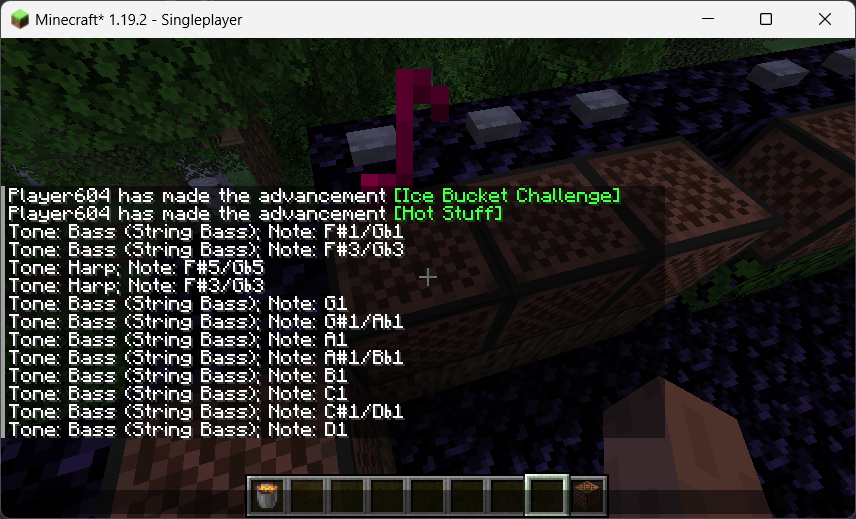
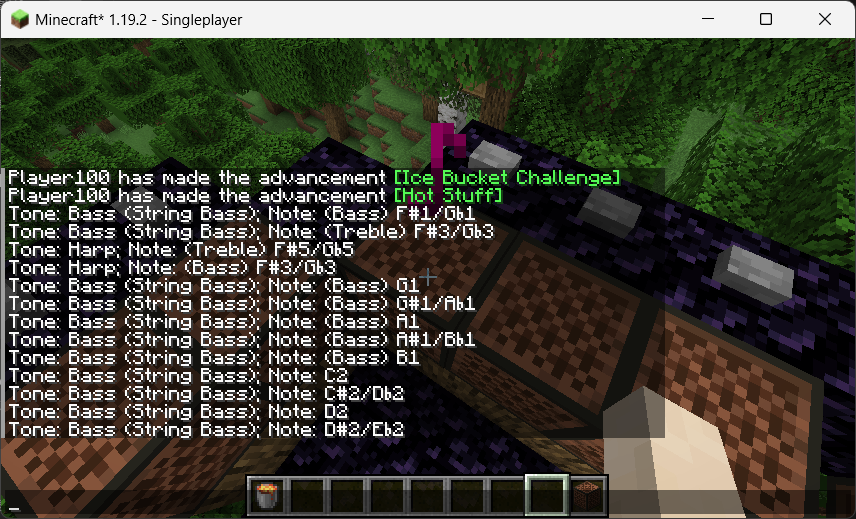
new feature: shows the relative octave in the instrument range; bug fixes: fixed octave display, the next note of B1 is C2 instead of C1.

diff --git a/src/main/java/com/eseabsolute/zhonglv12et/client/ZhongLv12ETClient.java b/src/main/java/com/eseabsolute/zhonglv12et/client/ZhongLv12ETClient.java
@@ -6,7 +6,6 @@ import net.minecraft.client.MinecraftClient;
 import net.minecraft.client.network.ClientPlayerEntity;
 import net.minecraft.client.sound.SoundInstance;
 import net.minecraft.client.sound.WeightedSoundSet;
-import net.minecraft.sound.SoundCategory;
 import net.minecraft.text.Text;
 import net.minecraft.util.Identifier;
 import oshi.util.tuples.Triplet;
@@ -44,9 +43,7 @@ public class ZhongLv12ETClient implements ClientModInitializer {
     @Override
     public void onInitializeClient() {
         client = MinecraftClient.getInstance();
-        ClientPlayConnectionEvents.JOIN.register((handler, sender, client) -> {
-            client.getSoundManager().registerListener(this::onPlaySound);
-        });
+        ClientPlayConnectionEvents.JOIN.register((handler, sender, client) -> client.getSoundManager().registerListener(this::onPlaySound));
     }
 
     private void onPlaySound(SoundInstance sound, WeightedSoundSet weightedSoundSet) {
@@ -77,13 +74,23 @@ public class ZhongLv12ETClient implements ClientModInitializer {
 
         int noteIndex = Math.round(adjustedPitch) % 12;
         if (noteIndex < 0) noteIndex += 12;
-        int octaveOffset = Math.round(adjustedPitch) / 12;
+        int octaveOffset = (Math.round(adjustedPitch) + 6) / 12;
         int range = initialOctave + octaveOffset;
 
+        Text noteName;
         if (need2Params[noteIndex]) {
-            return Text.translatable("note.%s".formatted(notes[noteIndex]), range, range);
+            noteName = Text.translatable("note.%s".formatted(notes[noteIndex]), range, range);
         } else {
-            return Text.translatable("note.%s".formatted(notes[noteIndex]), range);
+            noteName = Text.translatable("note.%s".formatted(notes[noteIndex]), range);
         }
+
+        String octaveIndicator = "octave.prefix.none";
+        if (octaveOffset == 0) {
+            octaveIndicator = "octave.prefix.bass";
+        } else if (octaveOffset == 2) {
+            octaveIndicator = "octave.prefix.treble";
+        }
+
+        return Text.translatable(octaveIndicator, noteName);
     }
 }

diff --git a/readme.md b/readme.md
@@ -1,4 +1,4 @@
-## Zhonglv-12ET
+## ZhongLv-12ET
 
 ### Features
 
